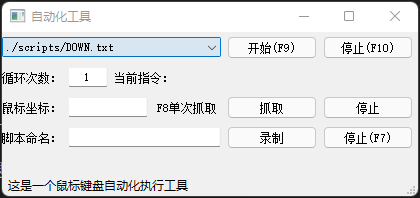
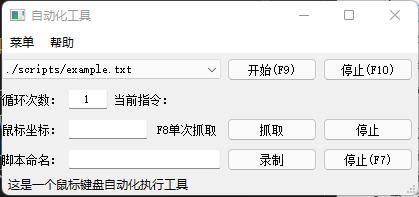
V1.2

diff --git a/wincore.py b/wincore.py
@@ -1,17 +1,18 @@
 from PyQt5 import QtWidgets
 from PyQt5.QtWidgets import *
 from PyQt5.QtCore import QTimer,QRegExp,QThread,pyqtSignal
-from PyQt5.QtGui import QKeyEvent, QKeySequence,QRegExpValidator
+from PyQt5.QtGui import QRegExpValidator
 from winshell import Ui_MainWindow
 import run
 from loguru import logger
 import os
-import sys
+# import sys
 import pyWinhook
-import pythoncom
+# import pythoncom
 import time
 import json
 import configparser
+import threading
 
 class wincore (QtWidgets.QMainWindow,Ui_MainWindow):
     def __init__(self):
@@ -21,6 +22,7 @@ class wincore (QtWidgets.QMainWindow,Ui_MainWindow):
         
     def readConfig(self):
         try:
+            logger.info("read config.....")
             config = configparser.ConfigParser()
             config.read('config.ini')
             self.mouseCmdInterval = config.getint('winCfg', 'mouseCmdInterval')
@@ -79,7 +81,9 @@ class wincore (QtWidgets.QMainWindow,Ui_MainWindow):
         self.pushButton_6.clicked.connect(self.buttonRecordStop)
         #菜单事件
         self.creatExample.triggered.connect(self.creatExampleScripts)
-        
+        self.openCfg.triggered.connect(self.openConfig)
+        self.setCfg.triggered.connect(self.reloadConfig)
+
         # 实例脚本执行器
         self.runnerThread = run.Runner()
         self.runnerThread.start()
@@ -100,6 +104,11 @@ class wincore (QtWidgets.QMainWindow,Ui_MainWindow):
         # 监听鼠标 
         hm.MouseAll = self.onMouseEvent   
         hm.HookMouse()
+
+    def reloadScriptsList(self):
+        for file in os.listdir("./scripts"):
+            if(file.endswith(".txt")):#只加载txt文件
+                self.comboBox.addItem("./scripts/"+file)
 
     def setCycleCount(self,count):
         self.lineEdit.setText(count)
@@ -252,7 +261,26 @@ class wincore (QtWidgets.QMainWindow,Ui_MainWindow):
         return True
 
     def creatExampleScripts(self):
-        pass
+        ex = "[\n [5000,\"keyboard\",\"down\",\"1\"],\n [142,\"keyboard\",\"up\",\"1\"]\n]"
+        open("./scripts/example.txt","w").write(ex)
+        self.reloadScriptsList()
+
+    def openConfig(self):
+        if(os.path.exists('config.ini')):
+            thread = threading.Thread(target=openTxt)
+            thread.start()
+        else:
+            logger.info("open config fail,creat")
+            cfg = "[runCfg]\nConfidence = 0.7\n\n[winCfg]\nmouseCmdInterval = 200\nstartKey = \"F9\"\nstopKey = \"F10\"\ncaptureKey = \"F8\"\nstopRecordKey = \"F7\""
+            open("config.ini","w").write(cfg)
+            thread = threading.Thread(target=openTxt)
+            thread.start()
+
+    def reloadConfig(self):
+        self.readConfig()
+
+def openTxt():
+    os.system('config.ini')
 
 def windowsOpen(sys):
     app=QtWidgets.QApplication(sys.argv)

diff --git a/README.md b/README.md
@@ -43,13 +43,16 @@ pip debug --verbose
 
 ### 界面
 * 下载exe直接点开即用，或者安装环境后执行python .\autogui.py
+
 界面：
 ![](./pic/p_A.png)
+
 * 第一行为脚本的选择，启动脚本和停止脚本，脚本被保存在执行程序地址下的scripts目录中
 * 第二行显示需要执行脚本的循环次数，需要在开始前修改，运行中修改无效
 * 第三行是为了方便自己写脚本的小工具，用于抓取鼠标点的坐标
 * 第四行为录制功能，填入新脚本名字后点击录制，可以记录所有鼠标和键盘操作（快捷键除外），然后点击F7结束录制，脚本自动保存，可以直接通过第一行选择启用。
 * 可通过编辑config.ini修改快捷键和图片匹配度，没有此文件则使用默认参数
+* 菜单里面可以打开配置文件或者应用配置文件，帮助里面可以生成示例脚本
 
 ### 脚本编写
 ```
@@ -86,12 +89,38 @@ pip debug --verbose
 ```
  [3000,"pic","left click","./scripts/tp1.png"]
 ```
-
-
-
-
+### 打包
+关于用 pyinstaller的打包，之前直接执行命令发现编译出来的百多M，后面使用虚拟环境来打包要小一半。
+* 1安装工具
+```
+pip install pipenv
+```
+* 2建立环境
+```
+pipenv install
+```
+* 3进入环境
+```
+pipenv shell
+```
+* 4安装相关模块
+```
+pip install pyautogui
+pip install pyqt5
+pip install loguru
+pip install .\pk\pyWinhook-1.6.2-cp39-cp39-win_amd64.whl
+pip install pyinstaller
+```
+* 5打包
+```
+pyinstaller -Fw .\autogui.py
+```
 
 ## 版本说明
+
+### V1.2
+增加菜单栏，主要是方便单独使用exe的时候建立配置文件和示例脚本
+压缩了exe文件大小
 
 ### V1.1
 新添加config.ini配置，可以修改快捷键和图像识别度
